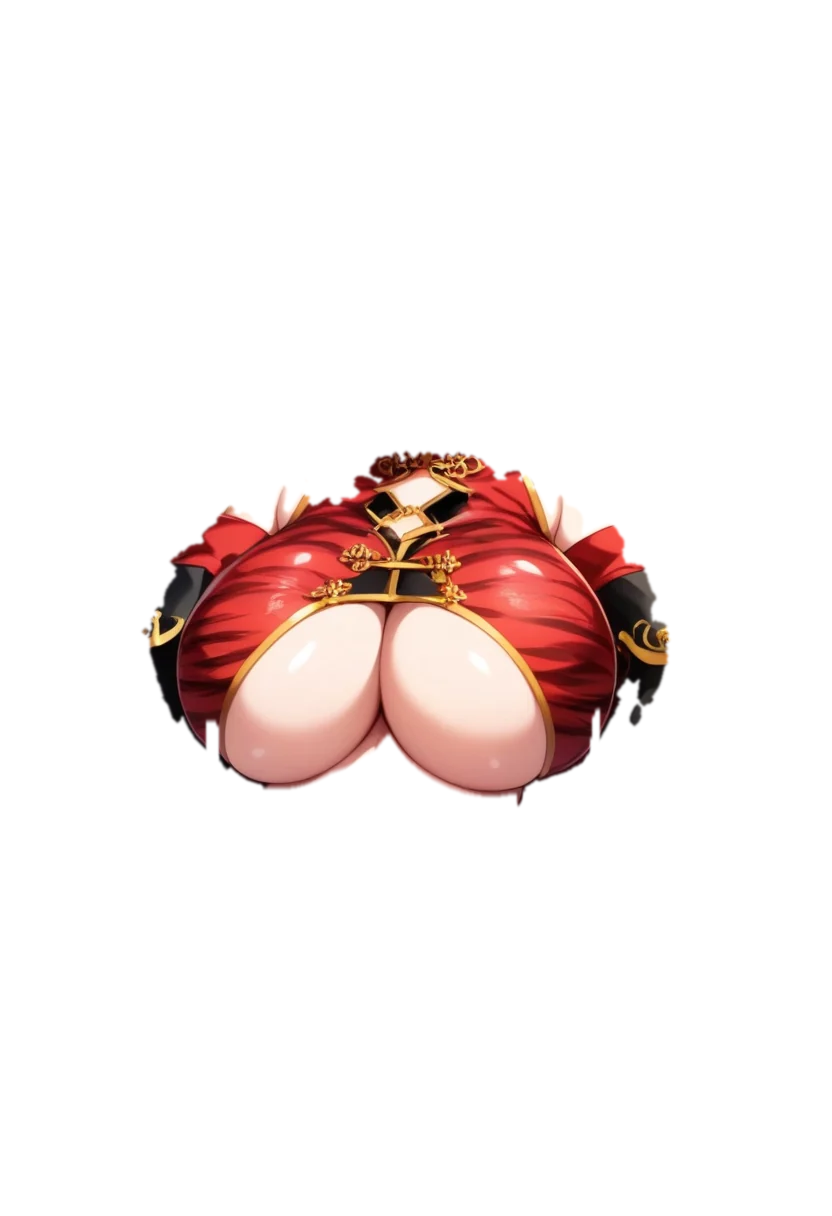
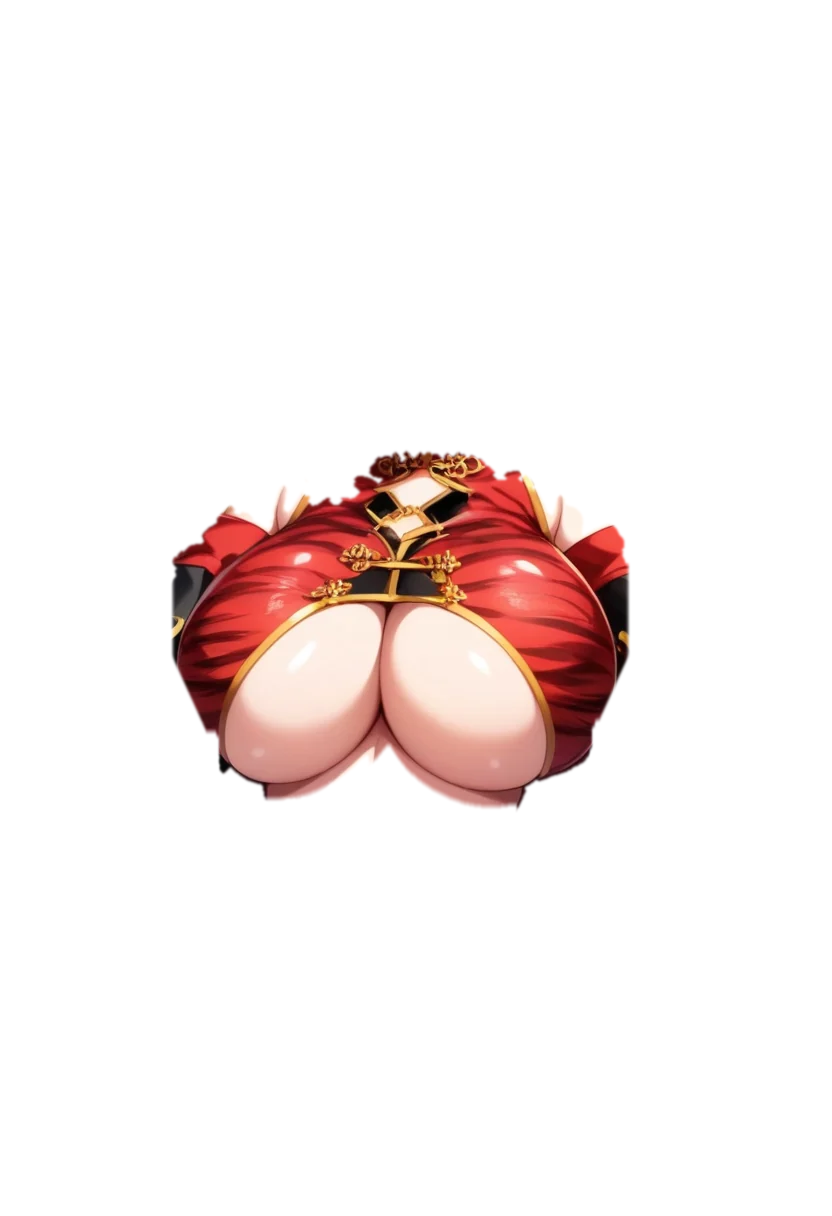
Layered prototype: chest layer limited to breast silhouette incl. shadow, smoothed underlay
Claude-Session: https://claude.ai/code/session_017CQhY3FLdH51zJppLF11JD

diff --git a/game/public/js/layered.js b/game/public/js/layered.js
@@ -4,7 +4,7 @@
   var RIG = {
     sunquan_ur: {
       w: 832, h: 1216,
-      chest: [[0.367, 0.567, 0.120, 0.080], [0.595, 0.567, 0.126, 0.082]],   // 左、右：[中心x, 中心y, 半徑x, 半徑y]
+      chest: [[0.367, 0.567, 0.160, 0.080], [0.595, 0.567, 0.160, 0.082]],   // 左、右：[中心x, 中心y, 半徑x, 半徑y]
       acc: [[0.395, 0.282], [0.617, 0.262]],                                 // 耳環掛點：左、右
       hairTop: 0.24,
     },
